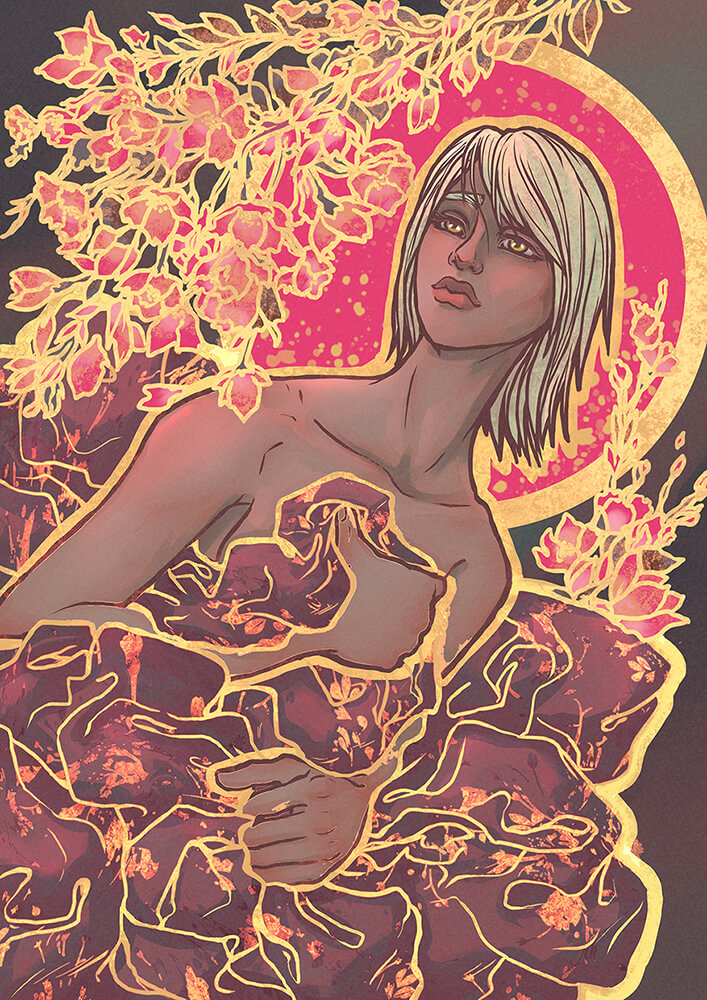
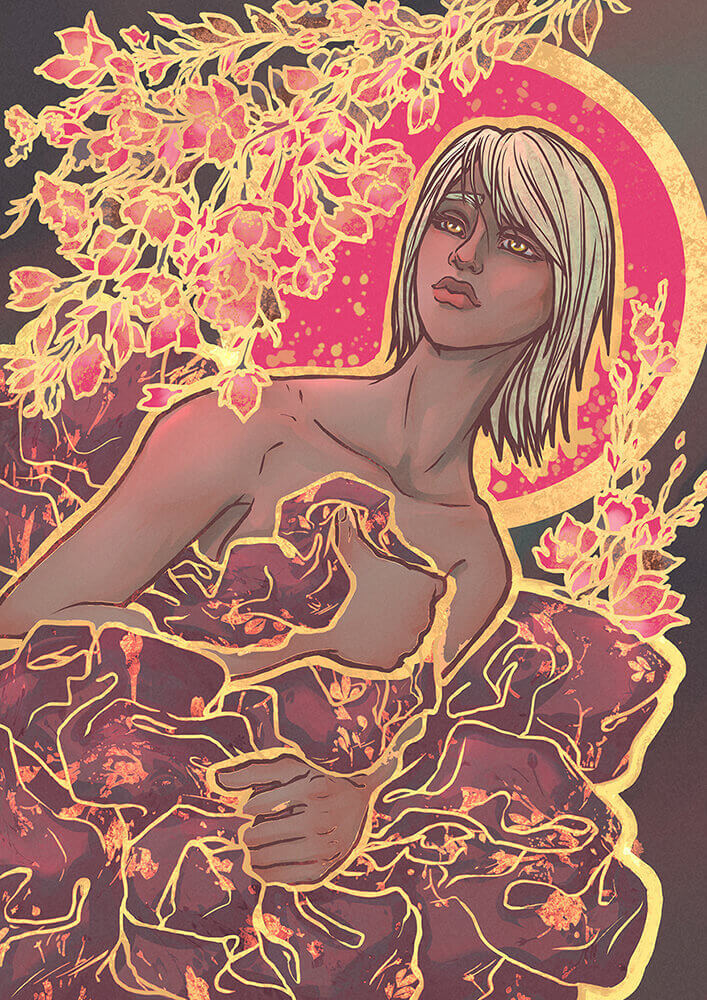
img optimize 2

diff --git a/index.html b/index.html
@@ -79,7 +79,7 @@
     <!-- Grid column -->
     <div class="col-4 mb-3">
 
-        <img src="img/bg.png" class="img-fluid z-depth-1-half" alt="Responsive image">
+        <img src="img/bg.jpg" class="img-fluid z-depth-1-half" alt="Responsive image">
 
     </div>
     <!-- Grid column -->
@@ -87,7 +87,7 @@
     <!-- Grid column -->
     <div class="col-3 mb-3">
 
-        <img src="img/38227_11_01_14_2_51_52_1.png" class="img-fluid z-depth-1-half" alt="Responsive image">
+        <img src="img/38227_11_01_14_2_51_52_1.jpg" class="img-fluid z-depth-1-half" alt="Responsive image">
 
     </div>
     <!-- Grid column -->
@@ -106,7 +106,7 @@
     <section class="container section-hr mb-5 aboutme ">
         <div class="row d-flex align-items-center">
             <div class="col-md-4 col-6 offset-3  offset-md-1 mb-5">
-            <img src="img/omnie.png" class="img-fluid z-depth-1-half mx-auto d-block" alt="Responsive image"></div>
+            <img src="img/omnie.jpg" class="img-fluid z-depth-1-half mx-auto d-block" alt="Responsive image"></div>
             
             <div class="col-md-5 offset-md-1 mb-5">
                 <h3 class="mb-3 text-uppercase">O mnie słow kilka</h3>

diff --git a/css/style.css b/css/style.css
@@ -6,7 +6,7 @@ body {
 
 body::after {
   content: "";
-  background: url('../img/bg.png') no-repeat;
+  background: url('../img/bg.jpg') no-repeat;
     background-size: cover;
     background-position: top;
     background-attachment: scroll;
